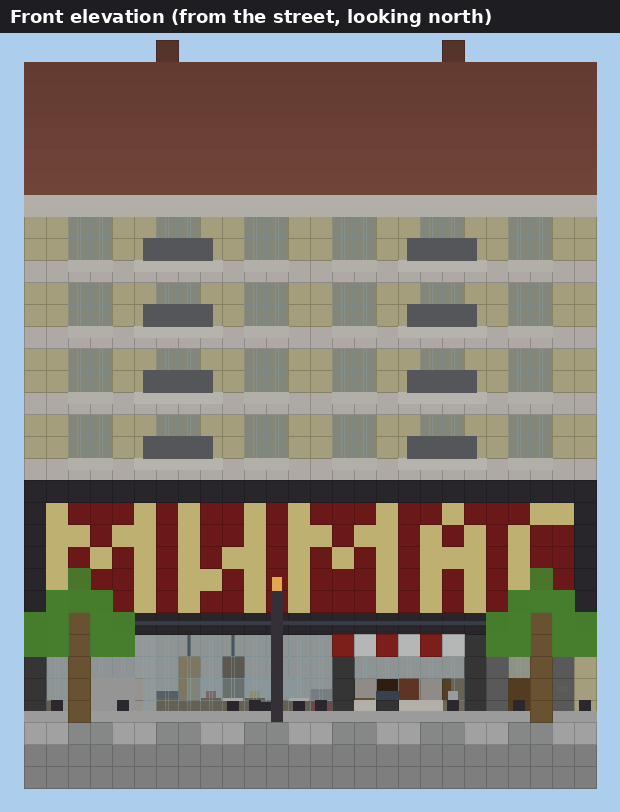
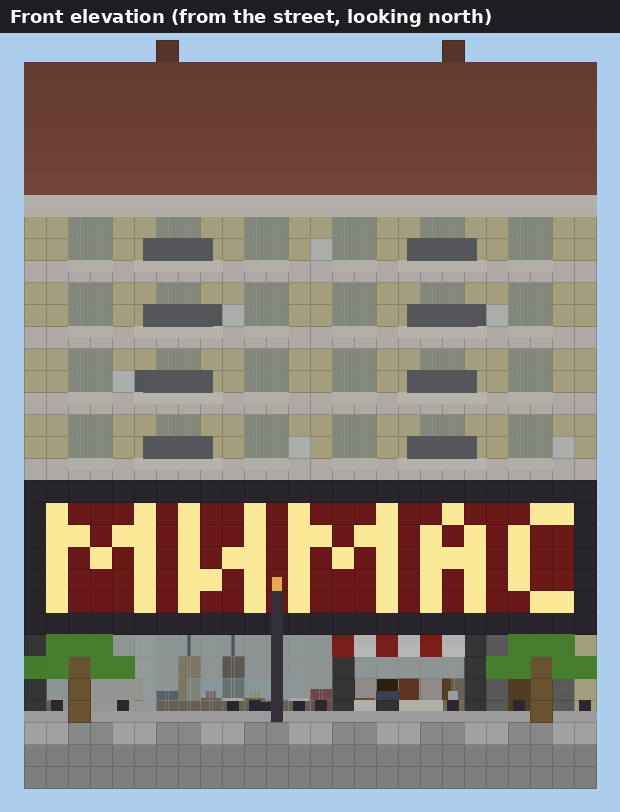
Mimas: README (install, placement, verification), 26.3 data pack zip (format 121.0), final previews [skip ci]
Claude-Session: https://claude.ai/code/session_01XA1caMxDhiQMpvuD5KZuuU

diff --git a/mimas/README.md b/mimas/README.md
@@ -1,21 +1,93 @@
-# Mimas (Sofia) — Minecraft Java 26.3 data pack
+# Mimas (Sofia) — Minecraft Java 26.3
 
 A block-by-block Minecraft version of **Mimas**, the döner / falafel takeaway at Graf Ignatiev / Vasil Levski in
-central Sofia. It's a generic Sofia-centre interpretation, built without photos: the ground floor of an older
-5-storey residential block, the lit **МИМАС** sign band, tram street outside. It is not a replica of the real
-façade.
+central Sofia. No photos were used, so this is a typical Sofia city-centre takeaway rather than a replica of the
+real façade: the ground floor of an older 5-storey residential block, a lit **МИМАС** sign band, and a street
+with tram tracks outside.
 
-**File:** [`mimas-datapack.zip`](mimas-datapack.zip). Vanilla only, Creative, one command.
+![Front, real 26.3 client](ci-results/shots/01_front_day.jpg)
 
-## Install (Java 26.3)
-1. Put `mimas-datapack.zip` in `<world>/datapacks/` (or *Create World → Data Packs → drag it in*).
-2. In the world: `/reload` (cheats on).
-3. Stand on flat ground where the **sidewalk** should be, then `/function mimas:build`.
-4. Undo: `/function mimas:clear` (puts the original terrain back in the same session).
+| File | For |
+|---|---|
+| [`mimas-datapack.zip`](mimas-datapack.zip) | Vanilla data pack: `/function mimas:build`, undo with `/function mimas:clear` |
+| [`mimas.litematic`](mimas.litematic) | Litematica |
+| [`mimas.schem`](mimas.schem) | WorldEdit / FAWE / Axiom (Sponge schematic v2) |
+
+## Install (Java 26.3, Creative, cheats on)
+1. Put `mimas-datapack.zip` in `<world>/datapacks/` (or *Create World → Data Packs*, drag it in), then `/reload`.
+2. Stand on flat, dry ground where the **sidewalk in front of the shop** should be.
+3. `/function mimas:build`. You're turned to face the shop.
+4. `/function mimas:clear` puts back exactly what was there before (same session, see limits).
 
 ## Where it appears
-- You are the origin. You end up on the sidewalk in front of the shop, turned to face it (north).
-- Footprint **26 × 26 blocks, 34 high**: from 10 blocks west to 15 east, 13 north to 12 south, 2 below your feet
-  to 31 above. Everything in that box is replaced (cleared to air first).
-- North of you: the shop (21 × 11, interior 19 × 9, ceiling 5 high) plus the flats' entrance bay. South of you:
-  the sidewalk, curb, road with two tram tracks, and the far sidewalk.
+- You are the origin, standing on the sidewalk. The shop is north of you, the road south.
+- Footprint **26 × 26, 34 high**: x from −10 to +15, z from −13 to +12, y from −2 (foundation) to +31.
+  Everything in that box is replaced.
+- Shop: 21 × 11 outside, 19 × 9 inside, ceiling 5 blocks. Flats' entrance bay on the east end.
+- 6,290 blocks, 83 block types. Placed by about 660 commands; no `/fill` is over 32,768 blocks.
+
+## What's in it
+- **Front:** full-width glass shop front. Double iron doors open by themselves via pressure plates on both sides.
+  Street-facing takeaway hatch with a ledge and a red/white sloped awning (26.3 wool stairs and slabs).
+  Lit МИМАС sign band across the frontage.
+- **Inside:**
+  - Service counter with a glass sneeze guard over a display (tomato, lettuce, cabbage, red cabbage, corn,
+    carrot), a till and a tray stack.
+  - Two vertical döner spits, chicken and beef, with glowing magma grill panels behind them.
+  - Flat grill, two fryer vats, prep counter with slicer and cutting board, sauce bottles.
+  - Two drinks fridges with a staff gate between them.
+  - Menu board of 8 waxed hanging signs above the counter, Cyrillic, glowing text, € prices.
+  - Window bar with 4 stools, 2 small tables with chairs, warm froglight and lantern lighting.
+  - Back kitchen through a staff door: sinks, fridge, freezer, oven, smoker, dry store, bin.
+- **Street:** tiled sidewalk, curb, asphalt road with two tram tracks, zebra crossing, two lamp posts, a bin,
+  Sofia-style bollards, two standing tables, two young lindens and the far sidewalk.
+- **Upper floors** (façade only, hollow behind): cream plaster, 6 windows per floor, small balconies with
+  railings and flower pots, AC units, cornice, tiled pitched roof, chimneys. Hidden light blocks keep mobs from
+  spawning in the hollow floors.
+
+## Decisions you may want to change
+- **Width:** the shop is 21 wide, not ~12. Five readable block letters need 24 blocks, so the sign spans the
+  whole 26-block building. Everything comes from one script, so a narrower layout is a quick change.
+- **Sign text:** МИМАС in Cyrillic, following the "Bulgarian" language setting. Latin MIMAS is a one-line change
+  (`SIGN_WORD` in `tools/design.py`).
+- **Menu prices** (€) are approximate. They come from delivery-app listings for Mimas, bul. Vasil Levski 68
+  (Wolt, Takeaway.com, Glovo, 2026), which disagree with each other. Check them against the counter.
+
+## How it was verified
+Everything is in [`ci-results/`](ci-results/), produced by [`.github/workflows/mimas.yml`](../.github/workflows/mimas.yml)
+on vanilla **26.3** (data pack format 121.0, DataVersion 5023):
+- **Block IDs and states:** every block state the pack uses is checked against the `blocks.json` report the
+  26.3 server itself generates. Result: PASS.
+- **Functions:** load with zero errors on a dedicated 26.3 server.
+- **Build:** drops no items. The sign NBT reads back with the Cyrillic text and € prices.
+- **World diff:** block-by-block comparison of the built world against the model: pending (CI run 3 in progress).
+- **Rebuild:** running `mimas:build` again over an existing build gives an identical result.
+- **Undo:** `mimas:clear` restores the original terrain with 0 differences over 24,336 positions.
+- **Model checks:** no floating blocks. Every area is walkable with 2-block headroom: shop, counter, nook,
+  staff side, back kitchen, outside hatch, flats' entrance, far sidewalk.
+- **Screenshots:** taken by the real 26.3 client. It fell back from OpenGL to its Vulkan backend on a
+  software (llvmpipe) GPU.
+- **Schematics:** read back by independent code, 0 mismatches over all 22,984 cells.
+
+## Limits
+- `mimas:clear` keeps its backup in memory. After the world or server restarts it can't restore the original
+  terrain. Instead it removes the build and levels the box to grass.
+- Water next to the box can flow into it when the area is cleared. Build on dry land.
+- The schematic files were not tested inside Litematica or WorldEdit. I don't know if those mods have 26.3
+  builds yet.
+
+## Screenshots (real 26.3 client)
+| | |
+|---|---|
+| ![](ci-results/shots/04_street_day.jpg) | ![](ci-results/shots/06_inside_counter.jpg) |
+| ![](ci-results/shots/07_menu_closeup.jpg) | ![](ci-results/shots/08_grill_line.jpg) |
+| ![](ci-results/shots/05_takeaway_window.jpg) | ![](ci-results/shots/11_front_night.jpg) |
+| ![](ci-results/shots/02_iso_day.jpg) | ![](ci-results/shots/03_top_day.jpg) |
+
+Layout previews from the generator: [front](previews/front.png), [isometric](previews/iso.png),
+[top](previews/top.png), [floor plan](previews/plan.png), [cutaway](previews/cutaway.png).
+
+## Rebuild from source
+`python3 mimas/tools/build.py` regenerates the data pack, checks and previews.
+`python3 mimas/tools/export_schematics.py` regenerates the schematics (needs `pip install nbtlib`).
+The design itself is in `tools/design.py`.
